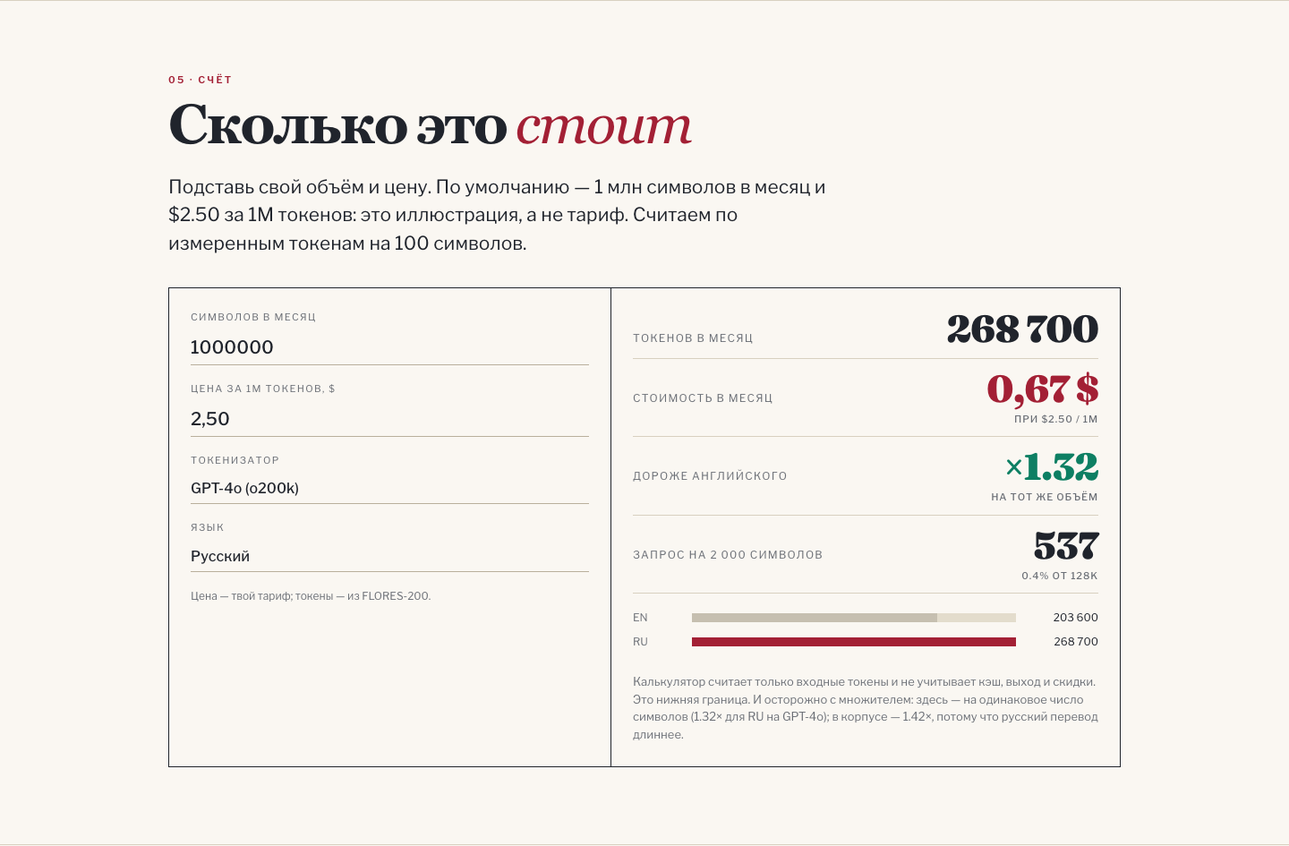
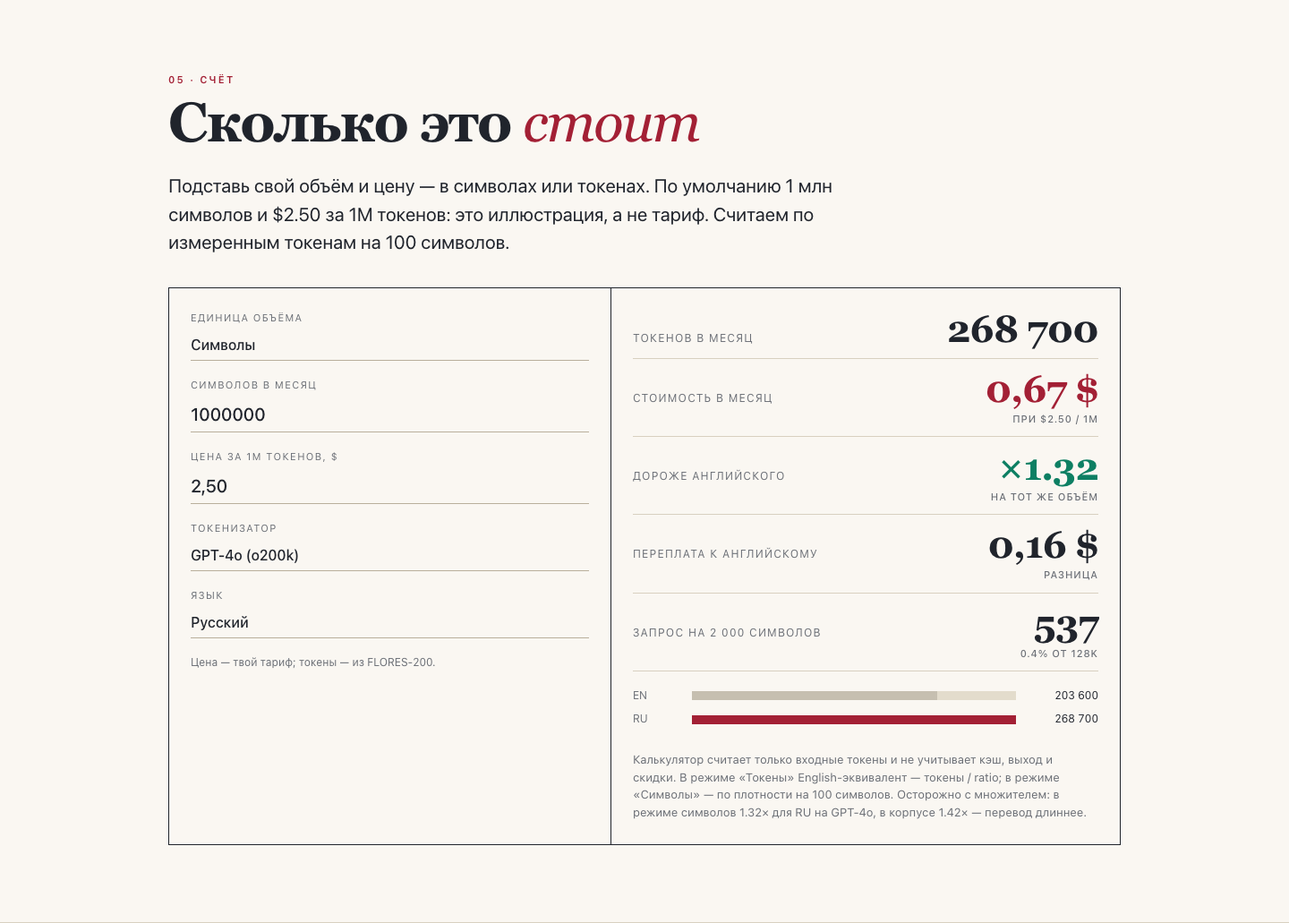
feat: token mode + explicit tax line in the calculator
- unit selector: characters or tokens; in token mode the English equivalent is tokens / ratio
- new 'переплата к английскому' output so the tax is a dollar figure, not only a multiplier
- personal all-time calculation: 99,787,974 tokens -> $249.47, tax $73.91 (RU/GPT-4o)
- post-calc image and docs updated
- model: DeepSeek Flash (deepseek-flash)

diff --git a/examples/token-tax/index.html b/examples/token-tax/index.html
@@ -137,6 +137,9 @@ code{font:500 .86em/1.2 var(--mono);background:var(--surface);padding:1px 4px;bo
 .calc-form label{display:block;font-size:11px;letter-spacing:.12em;text-transform:uppercase;color:var(--muted);margin:0 0 6px}
 .calc-form .field{margin:0 0 18px}
 .calc-form input,.calc-form select{width:100%;appearance:none;border:0;border-bottom:1px solid var(--rule-dark);background:transparent;color:var(--ink);font:500 20px/1.2 var(--sans);padding:7px 0;border-radius:0}
+.calc-form input[type=number]::-webkit-outer-spin-button,
+.calc-form input[type=number]::-webkit-inner-spin-button{-webkit-appearance:none;margin:0}
+.calc-form input[type=number]{-moz-appearance:textfield;appearance:textfield}
 .calc-form select{font-size:16px;cursor:pointer}
 .calc-form input:focus,.calc-form select:focus{outline:none;border-bottom-color:var(--accent)}
 .calc-form .hint{font-size:12px;color:var(--muted);margin:6px 0 0}
@@ -274,7 +277,7 @@ code{font:500 .86em/1.2 var(--mono);background:var(--surface);padding:1px 4px;bo
 <section class="section" id="audit"><div class="wrap"><div class="kicker">02 · Аудит</div><h2>1 012 предложений, <em>пять</em> токенизаторов</h2><div class="intro"><p>FLORES-200 — стандартный параллельный корпус. 1 012 предложений, один и тот же смысл на английском, русском, хинди и санскрите. Я прогнал их через пять открытых токенизаторов и посчитал, во сколько раз каждый язык дороже английского.</p></div><div class="chart-legend"><span><i style="background:#A32035"></i>русский</span><span><i style="background:#B07C1F"></i>хинди</span><span><i style="background:#0D7F63"></i>санскрит</span><span><i style="background:#C6BFB0"></i>английский = 1×</span></div><div class="chart-wrap"><svg viewBox="0 0 1000 486" role="img" aria-labelledby="bars-title bars-desc"><title id="bars-title">Отношение числа токенов к английскому по пяти токенизаторам</title><desc id="bars-desc">FLORES-200 devtest, 1012 предложений. Русский 1.42–2.46×, хинди 1.57–4.76×, санскрит 2.08–4.94× к английскому.</desc><line x1="336.2" y1="24" x2="336.2" y2="456" stroke="#E7E0D2" stroke-width="1"/><text x="336.2" y="474" text-anchor="middle" font-family="Libre Franklin, sans-serif" font-size="11" fill="#6B6F76">1×</text><line x1="482.3" y1="24" x2="482.3" y2="456" stroke="#E7E0D2" stroke-width="1"/><text x="482.3" y="474" text-anchor="middle" font-family="Libre Franklin, sans-serif" font-size="11" fill="#6B6F76">2×</text><line x1="628.5" y1="24" x2="628.5" y2="456" stroke="#E7E0D2" stroke-width="1"/><text x="628.5" y="474" text-anchor="middle" font-family="Libre Franklin, sans-serif" font-size="11" fill="#6B6F76">3×</text><line x1="774.6" y1="24" x2="774.6" y2="456" stroke="#E7E0D2" stroke-width="1"/><text x="774.6" y="474" text-anchor="middle" font-family="Libre Franklin, sans-serif" font-size="11" fill="#6B6F76">4×</text><line x1="920.8" y1="24" x2="920.8" y2="456" stroke="#E7E0D2" stroke-width="1"/><text x="920.8" y="474" text-anchor="middle" font-family="Libre Franklin, sans-serif" font-size="11" fill="#6B6F76">5×</text><line x1="336.2" y1="24" x2="336.2" y2="456" stroke="#B9AF9C" stroke-width="1" stroke-dasharray="3 3"/><text x="341.2" y="18" font-family="Libre Franklin, sans-serif" font-size="10" letter-spacing="1" fill="#6B6F76">EN = 1×</text><text x="0" y="46" font-family="Libre Franklin, sans-serif" font-size="14" font-weight="600" fill="#20242C">GPT-4o (o200k)</text><text x="0" y="62" font-family="Libre Franklin  sans-serif" font-size="10" letter-spacing="1" fill="#6B6F76">26 873 EN-токенов</text><rect x="190" y="36" width="207.7" height="12" fill="#A32035"/><text x="404.7" y="46" font-family="Libre Franklin, sans-serif" font-size="12" fill="#20242C">1.42×</text><rect x="190" y="54" width="229.9" height="12" fill="#B07C1F"/><text x="426.9" y="64" font-family="Libre Franklin, sans-serif" font-size="12" fill="#20242C">1.57×</text><rect x="190" y="72" width="304.7" height="12" fill="#0D7F63"/><text x="501.7" y="82" font-family="Libre Franklin, sans-serif" font-size="12" fill="#20242C">2.08×</text><line x1="0" y1="100" x2="1000" y2="100" stroke="#E7E0D2" stroke-width="1"/><text x="0" y="130" font-family="Libre Franklin, sans-serif" font-size="14" font-weight="600" fill="#20242C">GPT-4 (cl100k)</text><text x="0" y="146" font-family="Libre Franklin  sans-serif" font-size="10" letter-spacing="1" fill="#6B6F76">27 182 EN-токенов</text><rect x="190" y="120" width="359.8" height="12" fill="#A32035"/><text x="556.8" y="130" font-family="Libre Franklin, sans-serif" font-size="12" fill="#20242C">2.46×</text><rect x="190" y="138" width="695.5" height="12" fill="#B07C1F"/><text x="892.5" y="148" font-family="Libre Franklin, sans-serif" font-size="12" fill="#20242C">4.76×</text><rect x="190" y="156" width="721.7" height="12" fill="#0D7F63"/><text x="918.7" y="166" font-family="Libre Franklin, sans-serif" font-size="12" fill="#20242C">4.94×</text><line x1="0" y1="184" x2="1000" y2="184" stroke="#E7E0D2" stroke-width="1"/><text x="0" y="214" font-family="Libre Franklin, sans-serif" font-size="14" font-weight="600" fill="#20242C">Qwen2.5</text><text x="0" y="230" font-family="Libre Franklin  sans-serif" font-size="10" letter-spacing="1" fill="#6B6F76">27 621 EN-токенов</text><rect x="190" y="204" width="256.5" height="12" fill="#A32035"/><text x="453.5" y="214" font-family="Libre Franklin, sans-serif" font-size="12" fill="#20242C">1.75×</text><rect x="190" y="222" width="645.3" height="12" fill="#B07C1F"/><text x="842.3" y="232" font-family="Libre Franklin, sans-serif" font-size="12" fill="#20242C">4.42×</text><rect x="190" y="240" width="658.7" height="12" fill="#0D7F63"/><text x="855.7" y="250" font-family="Libre Franklin, sans-serif" font-size="12" fill="#20242C">4.51×</text><line x1="0" y1="268" x2="1000" y2="268" stroke="#E7E0D2" stroke-width="1"/><text x="0" y="298" font-family="Libre Franklin, sans-serif" font-size="14" font-weight="600" fill="#20242C">DeepSeek-V3</text><text x="0" y="314" font-family="Libre Franklin  sans-serif" font-size="10" letter-spacing="1" fill="#6B6F76">27 041 EN-токенов</text><rect x="190" y="288" width="231.2" height="12" fill="#A32035"/><text x="428.2" y="298" font-family="Libre Franklin, sans-serif" font-size="12" fill="#20242C">1.58×</text><rect x="190" y="306" width="408.5" height="12" fill="#B07C1F"/><text x="605.5" y="316" font-family="Libre Franklin, sans-serif" font-size="12" fill="#20242C">2.79×</text><rect x="190" y="324" width="417.4" height="12" fill="#0D7F63"/><text x="614.4" y="334" font-family="Libre Franklin, sans-serif" font-size="12" fill="#20242C">2.86×</text><line x1="0" y1="352" x2="1000" y2="352" stroke="#E7E0D2" stroke-width="1"/><text x="0" y="382" font-family="Libre Franklin, sans-serif" font-size="14" font-weight="600" fill="#20242C">Mistral-7B</text><text x="0" y="398" font-family="Libre Franklin  sans-serif" font-size="10" letter-spacing="1" fill="#6B6F76">29 997 EN-токенов</text><rect x="190" y="372" width="271.1" height="12" fill="#A32035"/><text x="468.1" y="382" font-family="Libre Franklin, sans-serif" font-size="12" fill="#20242C">1.85×</text><rect x="190" y="390" width="665.6" height="12" fill="#B07C1F"/><text x="862.6" y="400" font-family="Libre Franklin, sans-serif" font-size="12" fill="#20242C">4.55×</text><rect x="190" y="408" width="672.2" height="12" fill="#0D7F63"/><text x="869.2" y="418" font-family="Libre Franklin, sans-serif" font-size="12" fill="#20242C">4.60×</text><line x1="0" y1="436" x2="1000" y2="436" stroke="#E7E0D2" stroke-width="1"/></svg></div><div class="mobile-chart"><div class="mgroup"><div class="mname">GPT-4o (o200k)</div><div class="mrow"><span class="mlang">RU</span><div class="mtrack"><div class="mfill" style="width:27.3%;background:#A32035"></div></div><b>1.42×</b></div><div class="mrow"><span class="mlang">HI</span><div class="mtrack"><div class="mfill" style="width:30.2%;background:#B07C1F"></div></div><b>1.57×</b></div><div class="mrow"><span class="mlang">SA</span><div class="mtrack"><div class="mfill" style="width:40.1%;background:#0D7F63"></div></div><b>2.08×</b></div></div><div class="mgroup"><div class="mname">GPT-4 (cl100k)</div><div class="mrow"><span class="mlang">RU</span><div class="mtrack"><div class="mfill" style="width:47.3%;background:#A32035"></div></div><b>2.46×</b></div><div class="mrow"><span class="mlang">HI</span><div class="mtrack"><div class="mfill" style="width:91.5%;background:#B07C1F"></div></div><b>4.76×</b></div><div class="mrow"><span class="mlang">SA</span><div class="mtrack"><div class="mfill" style="width:95.0%;background:#0D7F63"></div></div><b>4.94×</b></div></div><div class="mgroup"><div class="mname">Qwen2.5</div><div class="mrow"><span class="mlang">RU</span><div class="mtrack"><div class="mfill" style="width:33.8%;background:#A32035"></div></div><b>1.75×</b></div><div class="mrow"><span class="mlang">HI</span><div class="mtrack"><div class="mfill" style="width:84.9%;background:#B07C1F"></div></div><b>4.42×</b></div><div class="mrow"><span class="mlang">SA</span><div class="mtrack"><div class="mfill" style="width:86.7%;background:#0D7F63"></div></div><b>4.51×</b></div></div><div class="mgroup"><div class="mname">DeepSeek-V3</div><div class="mrow"><span class="mlang">RU</span><div class="mtrack"><div class="mfill" style="width:30.4%;background:#A32035"></div></div><b>1.58×</b></div><div class="mrow"><span class="mlang">HI</span><div class="mtrack"><div class="mfill" style="width:53.8%;background:#B07C1F"></div></div><b>2.79×</b></div><div class="mrow"><span class="mlang">SA</span><div class="mtrack"><div class="mfill" style="width:54.9%;background:#0D7F63"></div></div><b>2.86×</b></div></div><div class="mgroup"><div class="mname">Mistral-7B</div><div class="mrow"><span class="mlang">RU</span><div class="mtrack"><div class="mfill" style="width:35.7%;background:#A32035"></div></div><b>1.85×</b></div><div class="mrow"><span class="mlang">HI</span><div class="mtrack"><div class="mfill" style="width:87.6%;background:#B07C1F"></div></div><b>4.55×</b></div><div class="mrow"><span class="mlang">SA</span><div class="mtrack"><div class="mfill" style="width:88.4%;background:#0D7F63"></div></div><b>4.60×</b></div></div></div><p class="note">EN = 1.0. Длина переводов различается, поэтому рядом — медиана по предложениям и токены на 100 символов; полная таблица — ниже.</p><div class="findings"><div class="finding"><b>1.42×</b><div><h3>GPT-4o выучил русский, но не хинди и санскрит</h3><p>На новом OpenAI-токенизаторе русский стоит 1.42× английского, хинди — 1.57×, санскрит — 2.08×. На старом GPT-4 — 2.46×, 4.76× и 4.94×. Разница между поколениями — не косметика.</p></div></div><div class="finding"><b>2.86×</b><div><h3>DeepSeek — лучший для деванагари</h3><p>Против 4.51× у Qwen2.5 и 4.60× у Mistral. Qwen заявляет мультиязычность, но на санскрите проигрывает DeepSeek почти вдвое.</p></div></div><div class="finding"><b>≈</b><div><h3>Хинди и санскрит ведут себя одинаково</h3><p>1.57–4.76× у хинди, 2.08–4.94× у санскрита. Это согласуется с эффектом письменности, но не доказывает его: на GPT-4o латиница не помогает, на GPT-4 — режет вдвое. Контроль — ниже.</p></div></div></div><details class="data-table"><summary>Таблица с числами</summary><div class="table-wrap"><table><thead><tr><th>Токенизатор</th><th class="num">EN, токенов</th><th class="num">RU / EN</th><th class="num">HI / EN</th><th class="num">SA / EN</th><th class="num">SA на 100 симв.</th></tr></thead><tbody><tr><td>GPT-4o (o200k)</td><td class="num">26 873</td><td class="num">1.42×</td><td class="num">1.57×</td><td class="num">2.08×</td><td class="num">43.7</td></tr><tr><td>GPT-4 (cl100k)</td><td class="num">27 182</td><td class="num">2.46×</td><td class="num">4.76×</td><td class="num">4.94×</td><td class="num">104.7</td></tr><tr><td>Qwen2.5</td><td class="num">27 621</td><td class="num">1.75×</td><td class="num">4.42×</td><td class="num">4.51×</td><td class="num">97.1</td></tr><tr><td>DeepSeek-V3</td><td class="num">27 041</td><td class="num">1.58×</td><td class="num">2.79×</td><td class="num">2.86×</td><td class="num">60.2</td></tr><tr><td>Mistral-7B</td><td class="num">29 997</td><td class="num">1.85×</td><td class="num">4.55×</td><td class="num">4.60×</td><td class="num">107.6</td></tr></tbody></table></div></details></div></section>
 <section class="section" id="script"><div class="wrap"><div class="kicker">03 · Контроль</div><h2>Тот же язык, <em>другая</em> письменность</h2><div class="intro"><p>Деванагари — не язык, а письменность. Чтобы отделить её эффект от языка, я переписал те же 1 012 предложений латиницей: русский — ASCII, хинди и санскрит — HK (ASCII) и IAST. Если латиница дешевле, это эффект письменности; если нет — языка и словаря токенизатора.</p></div><div class="table-wrap"><table class="bytes-table script-table"><thead><tr><th>Токенизатор</th><th class="num">RU<br><span>лат./кир.</span></th><th class="num">HI<br><span>HK/дева.</span></th><th class="num">HI<br><span>IAST/дева.</span></th><th class="num">SA<br><span>HK/дева.</span></th><th class="num">SA<br><span>IAST/дева.</span></th></tr></thead><tbody><tr><td>GPT-4o (o200k)</td><td class="num dear">1.48×</td><td class="num dear">1.52×</td><td class="num dear">1.62×</td><td class="num dear">1.06×</td><td class="num dear">1.18×</td></tr><tr><td>GPT-4 (cl100k)</td><td class="num cheap">0.93×</td><td class="num cheap">0.54×</td><td class="num cheap">0.69×</td><td class="num cheap">0.49×</td><td class="num cheap">0.73×</td></tr><tr><td>Qwen2.5</td><td class="num dear">1.29×</td><td class="num cheap">0.57×</td><td class="num cheap">0.64×</td><td class="num cheap">0.54×</td><td class="num cheap">0.62×</td></tr><tr><td>DeepSeek-V3</td><td class="num dear">1.42×</td><td class="num cheap">0.91×</td><td class="num same">0.98×</td><td class="num cheap">0.84×</td><td class="num cheap">0.94×</td></tr><tr><td>Mistral-7B</td><td class="num dear">1.22×</td><td class="num cheap">0.56×</td><td class="num cheap">0.60×</td><td class="num cheap">0.52×</td><td class="num cheap">0.58×</td></tr></tbody></table></div><p class="note">Меньше 1 — латиница дешевле; больше 1 — дороже. HK — ASCII, IAST — с диакритикой (IAST-колонки — в CSV). Считано по тем же 1 012 предложениям.</p><div class="findings"><div class="finding"><b>1.06×</b><div><h3>На GPT-4o латиница не помогает</h3><p>Санскрит HK 1.06×, IAST 1.18×; хинди IAST 1.62×; русский ASCII 1.48×. Новый токенизатор уже склеил деванагари — транслитерация только добавляет диакритику и диграфы.</p></div></div><div class="finding"><b>0.49×</b><div><h3>На GPT-4 латиница режет вдвое</h3><p>Санскрит HK 0.49×, хинди HK 0.54×. Это вклад старого словаря, а не «стоимость языка»: тот же смысл, другая запись — вдвое меньше токенов.</p></div></div><div class="finding"><b>58%</b><div><h3>Решает словарь, а не письменность</h3><p>На одном и том же деванагари DeepSeek 2.86×, Qwen 4.51×. Разница — 58% токенов. Письменность задаёт нижнюю границу, словарь токенизатора — итог.</p></div></div></div><p class="note">Оговорка: транслитерация меняет орфографию; HK — ASCII, IAST — с диакритикой; русская транслитерация даёт диграфы (zh, shch), поэтому она дороже кириллицы. Это тест на письменность, а не на смысл.</p></div></section>
 <section class="section" id="why"><div class="wrap"><div class="kicker">04 · Почему</div><h2>Байты, а не <em>буквы</em></h2><div class="intro"><p>BPE начинает с байтов и склеивает самые частые пары. Английская буква — один байт UTF-8. Русская — два. Деванагари — три.</p><p>Чем больше байтов на символ, тем реже токенизатор видел целый символ в обучающем корпусе. Когда готового токена нет, включается байтовый fallback: слово режется на куски, которые нельзя прочитать.</p><p>Но байты — не приговор: DeepSeek склеивает деванагари лучше, чем Qwen; словарь токенизатора решает, сколько из этих байтов станет одним токеном.</p></div><table class="bytes-table"><thead><tr><th>Символ</th><th>UTF-8, байт</th><th>Пример</th></tr></thead><tbody><tr><td lang="en">a</td><td>1</td><td>English</td></tr><tr><td lang="ru">а</td><td>2</td><td>Русский</td></tr><tr><td lang="sa" class="deva">क</td><td>3</td><td>संस्कृतम्</td></tr></tbody></table><div class="word-block"><h3 class="deva">कर्मण्येवाधिकारस्ते</h3><p class="word-sub">Одно слово из Бхагавадгиты 2.47. Сверху — GPT-4o, снизу — GPT-4.</p><div class="word-row"><div class="tag">GPT-4o (o200k)<b>8 токенов · 0 обрывков</b></div><div class="chips"><span class="chip deva">क</span><span class="chip deva">र्म</span><span class="chip deva">ण्य</span><span class="chip deva">ेव</span><span class="chip deva">ाध</span><span class="chip deva">िकार</span><span class="chip deva">स्त</span><span class="chip deva">े</span></div></div><div class="word-row"><div class="tag">GPT-4 (cl100k)<b>20 токенов · 16 обрывков</b></div><div class="chips"><span class="chip deva">क</span><span class="chip deva">र</span><span class="chip byte" title="byte fragment: e0 a5 8d e0 a4">e0 a5 8d e0 a4</span><span class="chip byte" title="byte fragment: ae">ae</span><span class="chip byte" title="byte fragment: e0 a4">e0 a4</span><span class="chip byte" title="byte fragment: a3">a3</span><span class="chip byte" title="byte fragment: e0 a5 8d e0 a4">e0 a5 8d e0 a4</span><span class="chip byte" title="byte fragment: af">af</span><span class="chip byte" title="byte fragment: e0 a5 87 e0 a4">e0 a5 87 e0 a4</span><span class="chip byte" title="byte fragment: b5">b5</span><span class="chip byte" title="byte fragment: e0 a4 be e0 a4">e0 a4 be e0 a4</span><span class="chip byte" title="byte fragment: a7">a7</span><span class="chip byte" title="byte fragment: e0 a4 bf e0 a4">e0 a4 bf e0 a4</span><span class="chip byte" title="byte fragment: 95">95</span><span class="chip byte" title="byte fragment: e0 a4 be e0 a4">e0 a4 be e0 a4</span><span class="chip byte" title="byte fragment: b0">b0</span><span class="chip deva">स</span><span class="chip byte" title="byte fragment: e0 a5 8d e0 a4">e0 a5 8d e0 a4</span><span class="chip byte" title="byte fragment: a4">a4</span><span class="chip deva">े</span></div></div></div><div class="intro" style="margin-top:26px"><p>На GPT-4o слово стоит 8 токенов; на GPT-4 — 20, из них 16 — обрывки байтов. Это и есть «налог»: модель платит за каждый кусок, даже если кусок не читается. Но в новом словаре тот же кусок стоит дешевле — и это уже не про письменность, а про словарь.</p></div></div></section>
-<section class="section" id="bill"><div class="wrap"><div class="kicker">05 · Счёт</div><h2>Сколько это <em>стоит</em></h2><div class="intro"><p>Подставь свой объём и цену. По умолчанию — 1 млн символов в месяц и $2.50 за 1M токенов: это иллюстрация, а не тариф. Считаем по измеренным токенам на 100 символов.</p></div><div class="calc"><div class="calc-form"><div class="field"><label for="calc-chars">Символов в месяц</label><input id="calc-chars" type="number" min="0" step="10000" value="1000000" inputmode="numeric"></div><div class="field"><label for="calc-price">Цена за 1M токенов, $</label><input id="calc-price" type="number" min="0" step="0.01" value="2.50" inputmode="decimal"></div><div class="field"><label for="calc-tok">Токенизатор</label><select id="calc-tok"><option value="gpt-4o (o200k)">GPT-4o (o200k)</option><option value="gpt-4 (cl100k)">GPT-4 (cl100k)</option><option value="Qwen2.5">Qwen2.5</option><option value="DeepSeek-V3">DeepSeek-V3</option><option value="Mistral-7B">Mistral-7B</option></select></div><div class="field"><label for="calc-lang">Язык</label><select id="calc-lang"><option value="RU" selected>Русский</option><option value="HI">Хинди</option><option value="SA">Санскрит</option></select></div><p class="hint">Цена — твой тариф; токены — из FLORES-200.</p></div><div class="calc-out"><div class="calc-line"><span class="k">Токенов в месяц</span><span class="v" id="out-tokens">—</span></div><div class="calc-line accent"><span class="k">Стоимость в месяц</span><span class="v" id="out-cost">—</span></div><div class="calc-line green"><span class="k">Дороже английского</span><span class="v" id="out-delta">—</span></div><div class="calc-line"><span class="k">Запрос на 2 000 символов</span><span class="v" id="out-request">—</span></div><div class="calc-bar" aria-hidden="true"><div class="row"><span>EN</span><div class="track"><div class="fill" id="bar-en" style="width:0"></div></div><span class="num" id="bar-en-num">—</span></div><div class="row"><span id="bar-lang-label">RU</span><div class="track"><div class="fill lang" id="bar-lang" style="width:0"></div></div><span class="num" id="bar-lang-num">—</span></div></div><p class="note">Калькулятор считает только входные токены и не учитывает кэш, выход и скидки. Это нижняя граница. И осторожно с множителем: здесь — на одинаковое число символов (1.32× для RU на GPT-4o); в корпусе — 1.42×, потому что русский перевод длиннее.</p></div></div><script type="application/json" id="calc-data">{"tokenizers": {"gpt-4o (o200k)": {"EN": {"tpc": 20.36, "tpw": 1.23}, "RU": {"tpc": 26.87, "tpw": 1.94}, "HI": {"tpc": 32.26, "tpw": 1.65}, "SA": {"tpc": 43.68, "tpw": 3.3}}, "gpt-4 (cl100k)": {"EN": {"tpc": 20.6, "tpw": 1.24}, "RU": {"tpc": 47.1, "tpw": 3.41}, "HI": {"tpc": 98.7, "tpw": 5.04}, "SA": {"tpc": 104.66, "tpw": 7.91}}, "Qwen2.5": {"EN": {"tpc": 20.93, "tpw": 1.26}, "RU": {"tpc": 34.11, "tpw": 2.47}, "HI": {"tpc": 93.06, "tpw": 4.76}, "SA": {"tpc": 97.06, "tpw": 7.33}}, "DeepSeek-V3": {"EN": {"tpc": 20.49, "tpw": 1.23}, "RU": {"tpc": 30.11, "tpw": 2.18}, "HI": {"tpc": 57.66, "tpw": 2.95}, "SA": {"tpc": 60.21, "tpw": 4.55}}, "Mistral-7B": {"EN": {"tpc": 22.73, "tpw": 1.37}, "RU": {"tpc": 39.15, "tpw": 2.83}, "HI": {"tpc": 104.23, "tpw": 5.33}, "SA": {"tpc": 107.57, "tpw": 8.13}}}, "default_price": 2.5, "context": 128000}</script></div></section>
+<section class="section" id="bill"><div class="wrap"><div class="kicker">05 · Счёт</div><h2>Сколько это <em>стоит</em></h2><div class="intro"><p>Подставь свой объём и цену — в символах или токенах. По умолчанию 1 млн символов и $2.50 за 1M токенов: это иллюстрация, а не тариф. Считаем по измеренным токенам на 100 символов.</p></div><div class="calc"><div class="calc-form"><div class="field"><label for="calc-unit">Единица объёма</label><select id="calc-unit"><option value="chars" selected>Символы</option><option value="tokens">Токены</option></select></div><div class="field"><label for="calc-chars" id="calc-vol-label">Символов в месяц</label><input id="calc-chars" type="number" min="0" step="10000" value="1000000" inputmode="numeric"></div><div class="field"><label for="calc-price">Цена за 1M токенов, $</label><input id="calc-price" type="number" min="0" step="0.01" value="2.50" inputmode="decimal"></div><div class="field"><label for="calc-tok">Токенизатор</label><select id="calc-tok"><option value="gpt-4o (o200k)">GPT-4o (o200k)</option><option value="gpt-4 (cl100k)">GPT-4 (cl100k)</option><option value="Qwen2.5">Qwen2.5</option><option value="DeepSeek-V3">DeepSeek-V3</option><option value="Mistral-7B">Mistral-7B</option></select></div><div class="field"><label for="calc-lang">Язык</label><select id="calc-lang"><option value="RU" selected>Русский</option><option value="HI">Хинди</option><option value="SA">Санскрит</option></select></div><p class="hint">Цена — твой тариф; токены — из FLORES-200.</p></div><div class="calc-out"><div class="calc-line"><span class="k" id="out-tokens-label">Токенов в месяц</span><span class="v" id="out-tokens">—</span></div><div class="calc-line accent"><span class="k" id="out-cost-label">Стоимость в месяц</span><span class="v" id="out-cost">—</span></div><div class="calc-line green"><span class="k">Дороже английского</span><span class="v" id="out-delta">—</span></div><div class="calc-line"><span class="k">Переплата к английскому</span><span class="v" id="out-tax">—</span></div><div class="calc-line" id="calc-request-line"><span class="k">Запрос на 2 000 символов</span><span class="v" id="out-request">—</span></div><div class="calc-bar" aria-hidden="true"><div class="row"><span>EN</span><div class="track"><div class="fill" id="bar-en" style="width:0"></div></div><span class="num" id="bar-en-num">—</span></div><div class="row"><span id="bar-lang-label">RU</span><div class="track"><div class="fill lang" id="bar-lang" style="width:0"></div></div><span class="num" id="bar-lang-num">—</span></div></div><p class="note">Калькулятор считает только входные токены и не учитывает кэш, выход и скидки. В режиме «Токены» English-эквивалент — токены / ratio; в режиме «Символы» — по плотности на 100 символов. Осторожно с множителем: в режиме символов 1.32× для RU на GPT-4o, в корпусе 1.42× — перевод длиннее.</p></div></div><script type="application/json" id="calc-data">{"tokenizers": {"gpt-4o (o200k)": {"EN": {"tpc": 20.36, "tpw": 1.23, "ratio": 1.0}, "RU": {"tpc": 26.87, "tpw": 1.94, "ratio": 1.421}, "HI": {"tpc": 32.26, "tpw": 1.65, "ratio": 1.573}, "SA": {"tpc": 43.68, "tpw": 3.3, "ratio": 2.085}}, "gpt-4 (cl100k)": {"EN": {"tpc": 20.6, "tpw": 1.24, "ratio": 1.0}, "RU": {"tpc": 47.1, "tpw": 3.41, "ratio": 2.462}, "HI": {"tpc": 98.7, "tpw": 5.04, "ratio": 4.759}, "SA": {"tpc": 104.66, "tpw": 7.91, "ratio": 4.938}}, "Qwen2.5": {"EN": {"tpc": 20.93, "tpw": 1.26, "ratio": 1.0}, "RU": {"tpc": 34.11, "tpw": 2.47, "ratio": 1.755}, "HI": {"tpc": 93.06, "tpw": 4.76, "ratio": 4.415}, "SA": {"tpc": 97.06, "tpw": 7.33, "ratio": 4.507}}, "DeepSeek-V3": {"EN": {"tpc": 20.49, "tpw": 1.23, "ratio": 1.0}, "RU": {"tpc": 30.11, "tpw": 2.18, "ratio": 1.582}, "HI": {"tpc": 57.66, "tpw": 2.95, "ratio": 2.795}, "SA": {"tpc": 60.21, "tpw": 4.55, "ratio": 2.856}}, "Mistral-7B": {"EN": {"tpc": 22.73, "tpw": 1.37, "ratio": 1.0}, "RU": {"tpc": 39.15, "tpw": 2.83, "ratio": 1.855}, "HI": {"tpc": 104.23, "tpw": 5.33, "ratio": 4.554}, "SA": {"tpc": 107.57, "tpw": 8.13, "ratio": 4.599}}}, "default_price": 2.5, "context": 128000}</script></div></section>
 <section class="section" id="do"><div class="wrap"><div class="kicker">06 · Что делать</div><h2>Пять тактик, <em>одна</em> оговорка</h2><div class="intro"><p>Налог нельзя отменить, но можно уменьшить. Вот что даёт измеримый эффект — и где начинается компромисс с качеством.</p></div><div class="tactics"><div class="tactic"><div class="n">01</div><h3>Выбирай токенизатор под язык</h3><p>Для санскрита DeepSeek — 2.86×, Qwen — 4.51×. На одном и том же тексте разница — 58% токенов. Для русского GPT-4o — 1.42×, GPT-4 — 2.46×.</p><span class="basis">FLORES-200, 1 012 предложений</span></div><div class="tactic"><div class="n">02</div><h3>Считай в токенах, а не в символах</h3><p>1 млн символов русского на GPT-4o — 269 тыс. токенов, на GPT-4 — 471 тыс. Бюджет в символах врёт почти вдвое.</p><span class="basis">26.9 и 47.1 токена на 100 символов</span></div><div class="tactic"><div class="n">03</div><h3>Кэшируй повторяющийся контекст</h3><p>Промпт-кэш удешевляет повторную отправку одного и того же контекста. Считай кэш отдельно от базовой цены: он меняет экономику длинных инструкций.</p><span class="basis">Механика провайдера, не замер этой страницы</span></div><div class="tactic"><div class="n">04</div><h3>Сжимай промпт, а не смысл</h3><p>Убирай дубли, вежливость и пересказ задания. Не переводи источник без нужды: перевод может стоить дешевле, но менять смысл.</p><span class="basis">Практика; проверяй на своём корпусе</span></div><div class="tactic"><div class="n">05</div><h3>Транслитерация — не серебряная пуля</h3><p>На GPT-4o латиница не помогает (RU 1.48×, HI IAST 1.62×), на GPT-4 — режет почти вдвое (HI HK 0.54×, SA HK 0.49×). Проверяй на своём токенизаторе, а не верь в латиницу.</p><span class="basis">script_control.json, 1 012 предложений</span></div><div class="tactic wide"><div class="n">—</div><h3>Оговорка: дешевле ≠ лучше</h3><p>Токенизатор, который экономит 30% токенов, может проиграть в качестве на вашей задаче. Считайте оба: стоимость и метрику. Всё, что выше, — про счёт, а не про ум.</p><span class="basis">Правило: A/B на своём корпусе, а не только на цене</span></div></div></div></section>
 <section class="trust" id="trust"><div class="wrap"><div class="kicker">07 · Проверь сам</div><h2>Данные, код, оговорки</h2><div class="trust-grid"><div><p><b>Корпус.</b> FLORES-200 devtest, 1 012 выровненных предложений, CC-BY-SA 4.0. Это переводы, а не тексты одной длины; поэтому мы смотрим и суммарное отношение, и медиану, и токены на 100 символов.</p><p><b>Токенизаторы.</b> GPT-4o (o200k_base), GPT-4 (cl100k_base), Qwen2.5-7B, DeepSeek-V3, Mistral-7B-v0.3. Ревизии — в JSON; tiktoken 0.14.0, transformers 5.20.2.</p><p><b>Оговорки.</b> Токенизатор — не модель: это стоимость токенов, не качество ответов. Цена за токен — одна ось; кэш, выход и скидки не учтены. Санскрит во FLORES — перевод, а не оригинал.</p><p><b>Контроль письменности.</b> Те же 1 012 предложений переписаны латиницей: RU — ASCII, HI/SA — HK и IAST. Отношение латиница/родная письменность — 0.49–1.62× в зависимости от токенизатора; это тест на письменность, не на смысл.</p><p><b>Как собрано.</b> Страница сгенерирована скиллом <code>visual-explainer</code> из <code>spec.json</code>; данные — <code>tools/measure_tokens.py</code>; контроль — <code>tools/measure_script_control.py</code>; полоски — <code>tools/make_token_strips.py</code>.</p><div class="links"><a href="data/flores_results.csv">CSV с замерами</a><a href="data/flores_results.json">JSON с ревизиями</a><a href="data/script_control.csv">Контроль (CSV)</a><a href="data/script_control.json">Контроль (JSON)</a><a href="../../tools/measure_tokens.py">Скрипт замера</a><a href="../../tools/measure_script_control.py">Скрипт контроля</a><a href="../../tools/make_token_strips.py">Скрипт полосок</a></div></div><div><p class="small">Токенов на 100 символов — длина-нормализованный вид. EN = английский; RU — русский; HI — хинди; SA — санскрит.</p><div class="table-wrap"><table class="bytes-table"><thead><tr><th>Токенизатор</th><th class="num">EN</th><th class="num">RU</th><th class="num">HI</th><th class="num">SA</th></tr></thead><tbody><tr><td>GPT-4o (o200k)</td><td class="num">20.4</td><td class="num">26.9</td><td class="num">32.3</td><td class="num">43.7</td></tr><tr><td>GPT-4 (cl100k)</td><td class="num">20.6</td><td class="num">47.1</td><td class="num">98.7</td><td class="num">104.7</td></tr><tr><td>Qwen2.5</td><td class="num">20.9</td><td class="num">34.1</td><td class="num">93.1</td><td class="num">97.1</td></tr><tr><td>DeepSeek-V3</td><td class="num">20.5</td><td class="num">30.1</td><td class="num">57.7</td><td class="num">60.2</td></tr><tr><td>Mistral-7B</td><td class="num">22.7</td><td class="num">39.1</td><td class="num">104.2</td><td class="num">107.6</td></tr></tbody></table></div><p class="small" style="margin-top:14px">Скилл: <a href="../../SKILL.md">visual-explainer</a> · Репозиторий: <a href="../../">gasyoun/visual-explainer</a> · 24-10-2026.</p></div></div></div></section>
 </main>
@@ -340,6 +343,7 @@ code{font:500 .86em/1.2 var(--mono);background:var(--surface);padding:1px 4px;bo
     var data = JSON.parse(calcEl.textContent);
     var chars = document.getElementById('calc-chars');
     var price = document.getElementById('calc-price');
+    var unit = document.getElementById('calc-unit');
     var tok = document.getElementById('calc-tok');
     var langSel = document.getElementById('calc-lang');
     var nf = new Intl.NumberFormat('ru-RU');
@@ -352,18 +356,31 @@ code{font:500 .86em/1.2 var(--mono);background:var(--surface);padding:1px 4px;bo
       var l = langSel.value;
       var c = num(chars);
       var p = num(price);
-      var enTokens = c * t.EN.tpc / 100;
-      var langTokens = c * t[l].tpc / 100;
+      var isTokens = unit.value === 'tokens';
+      var enTokens, langTokens;
+      if (isTokens) {
+        langTokens = c;
+        enTokens = c / t[l].ratio;
+      } else {
+        enTokens = c * t.EN.tpc / 100;
+        langTokens = c * t[l].tpc / 100;
+      }
       var enCost = enTokens / 1e6 * p;
       var langCost = langTokens / 1e6 * p;
       var delta = enTokens ? langTokens / enTokens : 0;
       var req = 2000 * t[l].tpc / 100;
 
+      document.getElementById('calc-vol-label').textContent = isTokens ? 'Токенов всего' : 'Символов в месяц';
+      document.getElementById('out-tokens-label').textContent = isTokens ? 'Токенов всего' : 'Токенов в месяц';
+      document.getElementById('out-cost-label').textContent = isTokens ? 'Стоимость' : 'Стоимость в месяц';
+      document.getElementById('calc-request-line').style.display = isTokens ? 'none' : '';
       document.getElementById('out-tokens').textContent = nf.format(Math.round(langTokens));
       document.getElementById('out-cost').innerHTML = cf.format(langCost) +
         '<small>при $' + p.toFixed(2) + ' / 1M</small>';
       document.getElementById('out-delta').innerHTML = '×' + delta.toFixed(2) +
         '<small>на тот же объём</small>';
+      document.getElementById('out-tax').innerHTML = cf.format(langCost - enCost) +
+        '<small>разница</small>';
       document.getElementById('out-request').innerHTML = nf.format(Math.round(req)) +
         '<small>' + (req / data.context * 100).toFixed(1) + '% от 128k</small>';
       document.getElementById('bar-lang-label').textContent = l;
@@ -375,7 +392,7 @@ code{font:500 .86em/1.2 var(--mono);background:var(--surface);padding:1px 4px;bo
     }
 
     [chars, price].forEach(function (el) { el.addEventListener('input', calc); });
-    [tok, langSel].forEach(function (el) { el.addEventListener('change', calc); });
+    [unit, tok, langSel].forEach(function (el) { el.addEventListener('change', calc); });
     calc();
   }
 })();

diff --git a/templates/explainer.css b/templates/explainer.css
@@ -124,6 +124,9 @@ code{font:500 .86em/1.2 var(--mono);background:var(--surface);padding:1px 4px;bo
 .calc-form label{display:block;font-size:11px;letter-spacing:.12em;text-transform:uppercase;color:var(--muted);margin:0 0 6px}
 .calc-form .field{margin:0 0 18px}
 .calc-form input,.calc-form select{width:100%;appearance:none;border:0;border-bottom:1px solid var(--rule-dark);background:transparent;color:var(--ink);font:500 20px/1.2 var(--sans);padding:7px 0;border-radius:0}
+.calc-form input[type=number]::-webkit-outer-spin-button,
+.calc-form input[type=number]::-webkit-inner-spin-button{-webkit-appearance:none;margin:0}
+.calc-form input[type=number]{-moz-appearance:textfield;appearance:textfield}
 .calc-form select{font-size:16px;cursor:pointer}
 .calc-form input:focus,.calc-form select:focus{outline:none;border-bottom-color:var(--accent)}
 .calc-form .hint{font-size:12px;color:var(--muted);margin:6px 0 0}

diff --git a/tools/build.py b/tools/build.py
@@ -378,6 +378,7 @@ def render_calculator(beat: dict, data: dict) -> str:
                 lang: {
                     "tpc": row[lang]["tokens_per_100_chars"],
                     "tpw": row[lang]["tokens_per_word"],
+                    "ratio": row[lang]["ratio_total"],
                 }
                 for lang in ("EN", "RU", "HI", "SA")
             }
@@ -391,7 +392,10 @@ def render_calculator(beat: dict, data: dict) -> str:
         + intro_html(beat)
         + '<div class="calc">'
           '<div class="calc-form">'
-          '<div class="field"><label for="calc-chars">Символов в месяц</label>'
+          '<div class="field"><label for="calc-unit">Единица объёма</label>'
+          '<select id="calc-unit"><option value="chars" selected>Символы</option>'
+          '<option value="tokens">Токены</option></select></div>'
+          '<div class="field"><label for="calc-chars" id="calc-vol-label">Символов в месяц</label>'
           '<input id="calc-chars" type="number" min="0" step="10000" value="1000000" inputmode="numeric"></div>'
           '<div class="field"><label for="calc-price">Цена за 1M токенов, $</label>'
           '<input id="calc-price" type="number" min="0" step="0.01" value="2.50" inputmode="decimal"></div>'
@@ -400,13 +404,15 @@ def render_calculator(beat: dict, data: dict) -> str:
           f'<p class="hint">{raw(beat.get("hint", ""))}</p>'
           "</div>"
           '<div class="calc-out">'
-          '<div class="calc-line"><span class="k">Токенов в месяц</span>'
+          '<div class="calc-line"><span class="k" id="out-tokens-label">Токенов в месяц</span>'
           '<span class="v" id="out-tokens">—</span></div>'
-          '<div class="calc-line accent"><span class="k">Стоимость в месяц</span>'
+          '<div class="calc-line accent"><span class="k" id="out-cost-label">Стоимость в месяц</span>'
           '<span class="v" id="out-cost">—</span></div>'
           '<div class="calc-line green"><span class="k">Дороже английского</span>'
           '<span class="v" id="out-delta">—</span></div>'
-          '<div class="calc-line"><span class="k">Запрос на 2 000 символов</span>'
+          '<div class="calc-line"><span class="k">Переплата к английскому</span>'
+          '<span class="v" id="out-tax">—</span></div>'
+          '<div class="calc-line" id="calc-request-line"><span class="k">Запрос на 2 000 символов</span>'
           '<span class="v" id="out-request">—</span></div>'
           '<div class="calc-bar" aria-hidden="true">'
           '<div class="row"><span>EN</span><div class="track"><div class="fill" id="bar-en" style="width:0"></div></div>'
@@ -552,6 +558,7 @@ SCRIPT = r"""
     var data = JSON.parse(calcEl.textContent);
     var chars = document.getElementById('calc-chars');
     var price = document.getElementById('calc-price');
+    var unit = document.getElementById('calc-unit');
     var tok = document.getElementById('calc-tok');
     var langSel = document.getElementById('calc-lang');
     var nf = new Intl.NumberFormat('ru-RU');
@@ -564,18 +571,31 @@ SCRIPT = r"""
       var l = langSel.value;
       var c = num(chars);
       var p = num(price);
-      var enTokens = c * t.EN.tpc / 100;
-      var langTokens = c * t[l].tpc / 100;
+      var isTokens = unit.value === 'tokens';
+      var enTokens, langTokens;
+      if (isTokens) {
+        langTokens = c;
+        enTokens = c / t[l].ratio;
+      } else {
+        enTokens = c * t.EN.tpc / 100;
+        langTokens = c * t[l].tpc / 100;
+      }
       var enCost = enTokens / 1e6 * p;
       var langCost = langTokens / 1e6 * p;
       var delta = enTokens ? langTokens / enTokens : 0;
       var req = 2000 * t[l].tpc / 100;
 
+      document.getElementById('calc-vol-label').textContent = isTokens ? 'Токенов всего' : 'Символов в месяц';
+      document.getElementById('out-tokens-label').textContent = isTokens ? 'Токенов всего' : 'Токенов в месяц';
+      document.getElementById('out-cost-label').textContent = isTokens ? 'Стоимость' : 'Стоимость в месяц';
+      document.getElementById('calc-request-line').style.display = isTokens ? 'none' : '';
       document.getElementById('out-tokens').textContent = nf.format(Math.round(langTokens));
       document.getElementById('out-cost').innerHTML = cf.format(langCost) +
         '<small>при $' + p.toFixed(2) + ' / 1M</small>';
       document.getElementById('out-delta').innerHTML = '×' + delta.toFixed(2) +
         '<small>на тот же объём</small>';
+      document.getElementById('out-tax').innerHTML = cf.format(langCost - enCost) +
+        '<small>разница</small>';
       document.getElementById('out-request').innerHTML = nf.format(Math.round(req)) +
         '<small>' + (req / data.context * 100).toFixed(1) + '% от 128k</small>';
       document.getElementById('bar-lang-label').textContent = l;
@@ -587,7 +607,7 @@ SCRIPT = r"""
     }
 
     [chars, price].forEach(function (el) { el.addEventListener('input', calc); });
-    [tok, langSel].forEach(function (el) { el.addEventListener('change', calc); });
+    [unit, tok, langSel].forEach(function (el) { el.addEventListener('change', calc); });
     calc();
   }
 })();

diff --git a/POST.md b/POST.md
@@ -13,7 +13,7 @@ _Готово: 25-10-2026 · страница, скилл, данные._
 — DeepSeek — лучший для деванагари (2.86×), Qwen — 4.51×, хотя оба заявляют мультиязычность.
 — Контроль «тот же текст латиницей»: на GPT-4o это не помогает (1.06–1.62×), на GPT-4 — режет почти вдвое (0.49–0.54×). Решает словарь токенизатора, а не письменность сама по себе.
 
-Внутри — калькулятор: подставляешь объём и цену, видишь счёт. И контроль, почему «деванагари дорого» — не приговор: на одном и том же тексте DeepSeek 2.86×, Qwen 4.51×.
+Внутри — калькулятор: символы или токены, цена, язык; видишь счёт и переплату к английскому. И контроль, почему «деванагари дорого» — не приговор: на одном и том же тексте DeepSeek 2.86×, Qwen 4.51×.
 
 Звёздочная задача: skill visual-explainer — spec.json → build.py → check.py → render.py. Он собрал эту страницу и ещё две мини-объяснялки; данные, скрипты и скриншоты — в репозитории.
 
@@ -26,7 +26,7 @@ _Готово: 25-10-2026 · страница, скилл, данные._
 1. `examples/token-tax/screenshots/post-hero.png` — заголовок и две цифры.
 2. `examples/token-tax/screenshots/post-audit.png` — аудит: пять токенизаторов, три вывода.
 3. `examples/token-tax/screenshots/post-script.png` — контроль: тот же язык, другая письменность.
-4. `examples/token-tax/screenshots/post-calc.png` — калькулятор: 268 700 токенов, $0.67, ×1.32.
+4. `examples/token-tax/screenshots/post-calc.png` — калькулятор: 268 700 токенов, $0.67, ×1.32, переплата $0.16.
 
 ## Чек-лист
 

diff --git a/README.md b/README.md
@@ -32,6 +32,10 @@ HK/IAST for Hindi and Sanskrit) — shows the effect is tokenizer-dependent:
 nearly neutral (0.84–0.98×). Devanagari is a script, not a language: the script
 sets a floor, the tokenizer's vocabulary decides the bill.
 
+The calculator accepts **characters or tokens**; in token mode the English
+equivalent is `tokens / ratio`, so a real all-time token volume can be plugged
+in directly.
+
 ## What's inside
 
 | Path | What it is |
